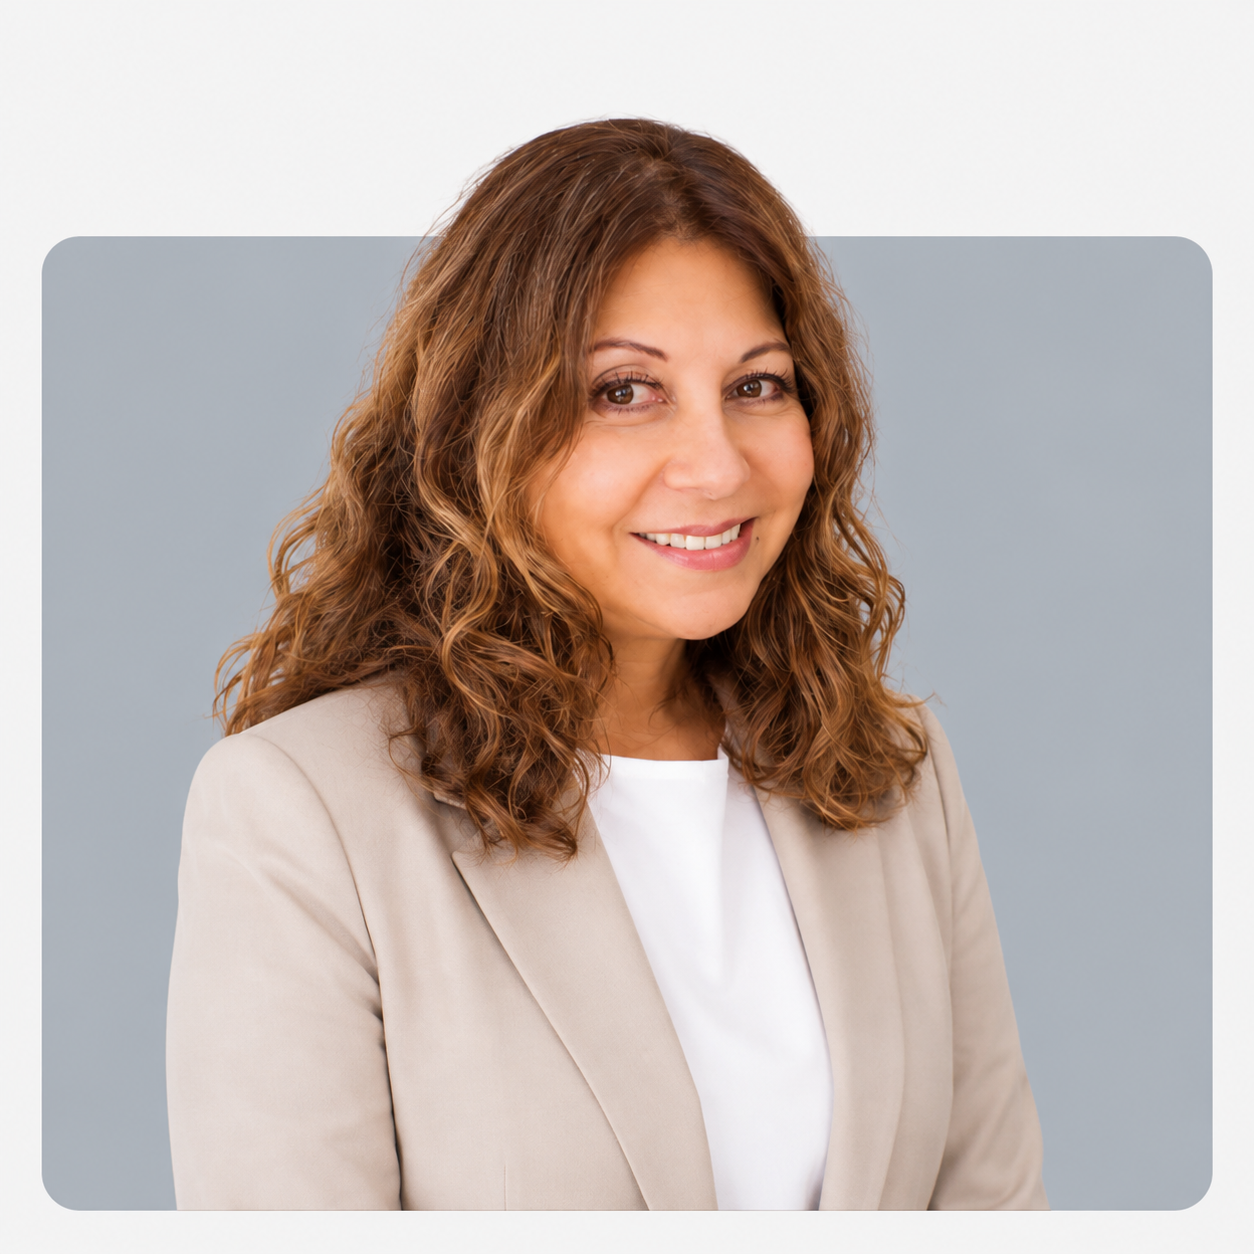
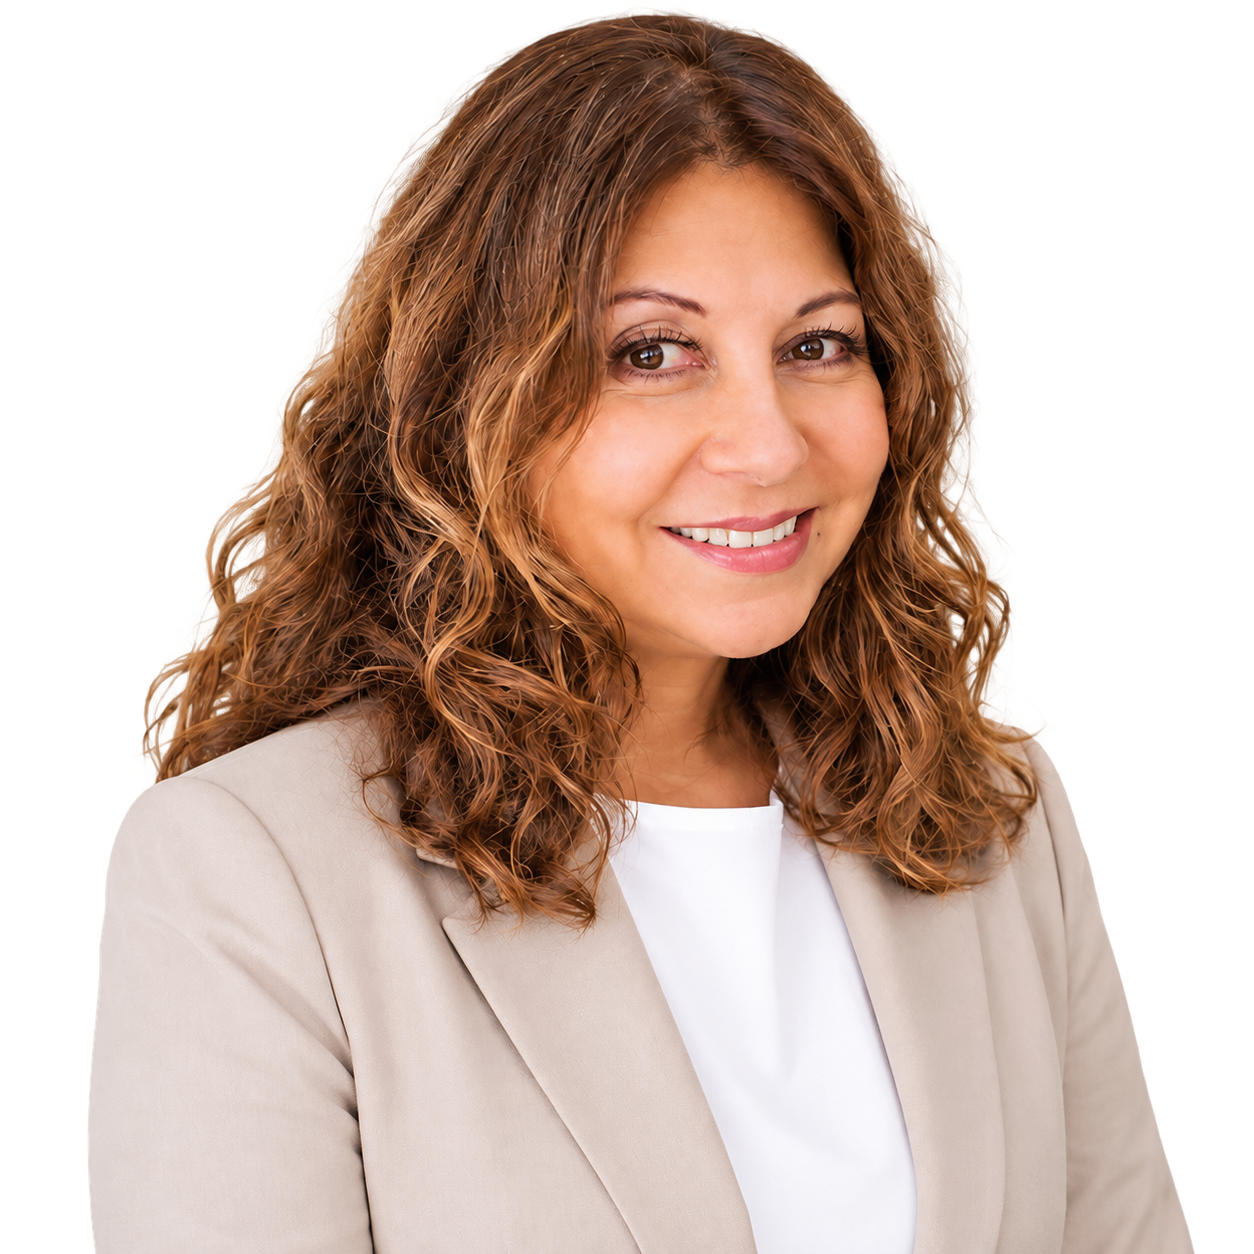
WhatsApp +51 997 930 932 e icono flotante

diff --git a/src/App.tsx b/src/App.tsx
@@ -42,6 +42,7 @@ const attorneys = [
 const phoneUs = '+17869403621';
 const phonePe = '+51997930932';
 const phoneEs = '+34645690324';
+const whatsapp = '51997930932';
 const email = 'diazyromerosolucionespatrimonialesperu@gmail.com';
 
 const services = [
@@ -294,7 +295,7 @@ function App() {
                 <a className="contact-link" href={`tel:${phonePe}`} data-testid="link-contact-peru"><Phone size={17} /><span><small>Perú</small>+51 997 930 932</span></a>
                 <a className="contact-link" href={`tel:${phoneEs}`} data-testid="link-contact-spain"><Phone size={17} /><span><small>España</small>+34 645 690 324</span></a>
                 <a className="contact-link" href={`mailto:${email}`} data-testid="link-contact-email"><Mail size={17} /><span><small>Correo electrónico</small>{email}</span></a>
-                <a className="contact-link" href="https://wa.me/17869403621" target="_blank" rel="noreferrer" data-testid="link-contact-whatsapp"><Handshake size={17} /><span><small>Mensajería directa</small>Escribir por WhatsApp</span></a>
+                <a className="contact-link" href={`https://wa.me/${whatsapp}`} target="_blank" rel="noreferrer" data-testid="link-contact-whatsapp"><Handshake size={17} /><span><small>Mensajería directa</small>Escribir por WhatsApp</span></a>
               </div>
             </div>
             <form className="contact-form reveal delay-1" onSubmit={handleSubmit} data-testid="form-contact">
@@ -337,8 +338,17 @@ function App() {
           <div className="footer-bottom"><span>© {new Date().getFullYear()} Díaz &amp; Romero. Todos los derechos reservados.</span><span className="flex items-center gap-2"><MapPin size={12} /> Perú · Estados Unidos</span></div>
         </div>
       </footer>
-      <button className="fixed bottom-5 right-5 z-30 grid h-12 w-12 place-items-center rounded-full bg-[hsl(var(--accent))] text-[hsl(var(--primary))] shadow-[0_10px_25px_rgba(28,43,64,.18)] transition-transform hover:-translate-y-1" onClick={() => scrollToId('contacto')} aria-label="Ir a contacto" data-testid="button-floating-contact"><Mail size={19} /></button>
+      <button className="fixed bottom-24 right-5 z-30 grid h-12 w-12 place-items-center rounded-full bg-[hsl(var(--accent))] text-[hsl(var(--primary))] shadow-[0_10px_25px_rgba(28,43,64,.18)] transition-transform hover:-translate-y-1" onClick={() => scrollToId('contacto')} aria-label="Ir a contacto" data-testid="button-floating-contact"><Mail size={19} /></button>
+      <a className="whatsapp-float" href={`https://wa.me/${whatsapp}`} target="_blank" rel="noreferrer" aria-label="Escribir por WhatsApp" data-testid="link-whatsapp-float"><WhatsAppIcon size={26} /></a>
     </div>
+  );
+}
+
+function WhatsAppIcon({ size = 24 }: { size?: number }) {
+  return (
+    <svg width={size} height={size} viewBox="0 0 24 24" fill="currentColor" aria-hidden="true">
+      <path d="M17.472 14.382c-.297-.149-1.758-.867-2.03-.967-.273-.099-.471-.148-.67.15-.197.297-.767.966-.94 1.164-.173.199-.347.223-.644.075-.297-.15-1.255-.463-2.39-1.475-.883-.788-1.48-1.761-1.653-2.059-.173-.297-.018-.458.13-.606.134-.133.297-.347.446-.52.149-.174.198-.298.298-.497.099-.198.05-.371-.025-.52-.075-.149-.669-1.612-.916-2.207-.242-.579-.487-.5-.669-.51-.173-.008-.371-.01-.57-.01-.198 0-.52.074-.792.372-.272.297-1.04 1.016-1.04 2.479 0 1.462 1.065 2.875 1.213 3.074.149.198 2.096 3.2 5.077 4.487.709.306 1.262.489 1.694.625.712.227 1.36.195 1.871.118.571-.085 1.758-.719 2.006-1.413.248-.694.248-1.289.173-1.413-.074-.124-.272-.198-.57-.347m-5.421 7.403h-.004a9.87 9.87 0 01-5.031-1.378l-.361-.214-3.741.982.998-3.648-.235-.374a9.86 9.86 0 01-1.51-5.26c.001-5.45 4.436-9.884 9.888-9.884 2.64 0 5.122 1.03 6.988 2.898a9.825 9.825 0 012.893 6.994c-.003 5.45-4.437 9.884-9.885 9.884m8.413-18.297A11.815 11.815 0 0012.05 0C5.495 0 .16 5.335.157 11.892c0 2.096.547 4.142 1.588 5.945L.057 24l6.305-1.654a11.882 11.882 0 005.683 1.448h.005c6.554 0 11.89-5.335 11.893-11.893a11.821 11.821 0 00-3.48-8.413" />
+    </svg>
   );
 }
 

diff --git a/src/index.css b/src/index.css
@@ -240,6 +240,8 @@ body {
 .footer p, .footer a { color: hsl(var(--primary-foreground) / .62); font-size: 12px; line-height: 1.65; text-decoration: none; }
 .footer a:hover { color: hsl(var(--accent)); }
 .footer-bottom { display: flex; justify-content: space-between; gap: 15px; border-top: 1px solid hsl(var(--primary-foreground) / .18); padding-top: 20px; color: hsl(var(--primary-foreground) / .42); font-size: 10px; }
+.whatsapp-float { position: fixed; right: 18px; bottom: 18px; z-index: 35; display: grid; place-items: center; width: 54px; height: 54px; border-radius: 50%; background: #25d366; color: #fff; box-shadow: 0 10px 25px rgba(0, 0, 0, .22); transition: transform .25s ease, background .25s ease; }
+.whatsapp-float:hover { transform: translateY(-3px); background: #1ebe5b; }
 .mobile-menu { display: none; }
 
 @media (max-width: 850px) {
